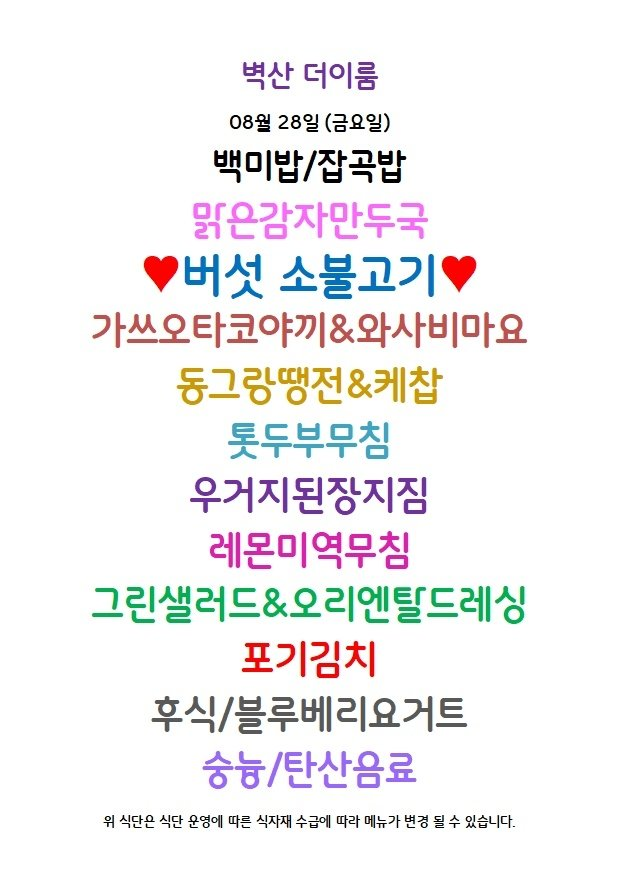
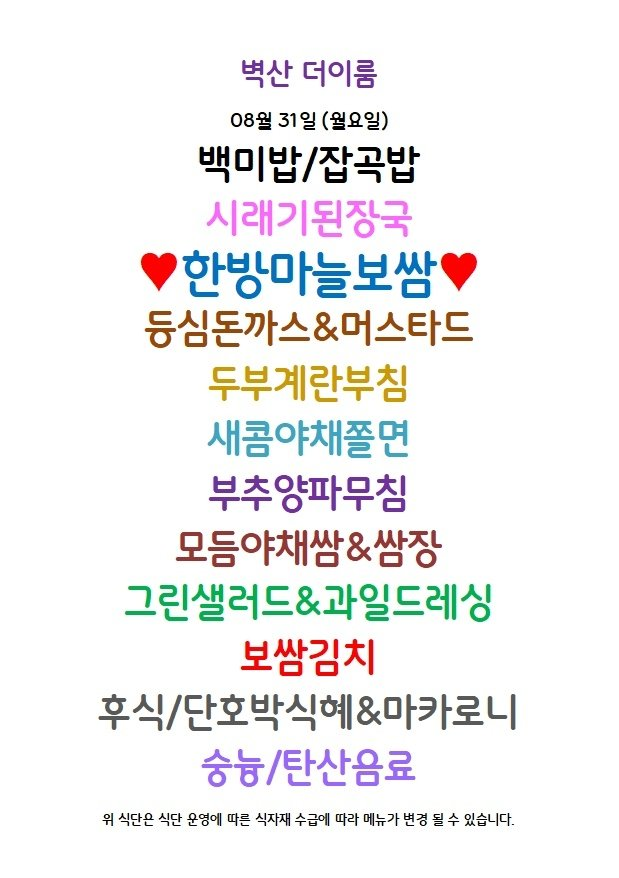
Update menu board assets

diff --git a/menu-today/index.html b/menu-today/index.html
@@ -209,7 +209,7 @@
 
     <section class="meta-bar">
       <div class="meta-card"><div class="meta-label">기준 날짜</div><div class="meta-value">2026년 8월 31일 월요일</div></div>
-      <div class="meta-card"><div class="meta-label">최종 가져온 시간</div><div class="meta-value">2026-08-31 09:03:27</div></div>
+      <div class="meta-card"><div class="meta-label">최종 가져온 시간</div><div class="meta-value">2026-08-31 09:13:20</div></div>
       <div class="meta-card"><div class="meta-label">확인 완료</div><div class="meta-value">9개 식당</div></div>
       <div class="meta-card"><div class="meta-label">준비중</div><div class="meta-value">3개 채널</div></div>
     </section>
@@ -295,7 +295,7 @@
             <div class="sub">에이스테크노타워10차</div>
           </div>
         </div>
-        <div class="menu-inline-image"><img src="./images/thefoodsketch.png" alt="더푸드스케치 식단 이미지"></div><ul><li>어묵탕</li><li>소고기불고기</li><li>후라이드치킨 / 치폴레S</li><li>코코닛쉬림프커리</li><li>비엔나스크램블에그</li><li>버섯간장비빔국수</li><li>SJ 새조개미나리초무침</li><li>콩나물무침</li><li>가든샐러드 / 드레싱</li><li>배추겉절이 / 음료</li><li>소고기물고기</li></ul>
+        <div class="menu-inline-image"><img src="./images/thefoodsketch.png" alt="더푸드스케치 식단 이미지"></div><ul><li>어묵탕</li><li>소고기불고기</li><li>후라이드치킨 / 치폴레S</li><li>코코닛쉬림프커리</li><li>비엔나스크램블에그</li><li>버섯간장비빔국수</li><li>SJ 새조개미나리초무침</li><li>콩나물무침</li><li>가든샐러드 &amp; 드레싱</li><li>배추겉절이 / 음료</li><li>소고기물고기</li></ul>
       </article>
 
       <article class="restaurant-card">

diff --git a/guro-menu/index.html b/guro-menu/index.html
@@ -32,7 +32,7 @@
   </header>
   <section class="meta">
     <div><small>기준 날짜</small><strong>2026년 8월 31일 월요일</strong></div>
-    <div><small>최종 갱신</small><strong>2026-08-31 09:03:40</strong></div>
+    <div><small>최종 갱신</small><strong>2026-08-31 09:13:37</strong></div>
     <div><small>등록 식당</small><strong>5개</strong></div>
   </section>
   <div class="notice">공개 카카오 채널의 메뉴 이미지를 자동 수집하고 OCR로 정리합니다. 텍스트에 오타가 있을 수 있으니 식단 이미지를 함께 확인해 주세요.</div>
@@ -89,8 +89,8 @@
           <a class="channel" href="https://pf.kakao.com/_xdLzxgG" target="_blank" rel="noopener">원본 채널</a>
         </div>
         <img class="menu-image" src="./images/byucksan-theirum.png" alt="벽산더이룸 식단 이미지" loading="lazy">
-        <p class="message">최신 공개 식단 이미지의 텍스트입니다. 날짜는 원본 이미지를 확인해 주세요.</p>
-        <ul><li>백미밥/잡곡밥</li><li>버섯 소불고기</li><li>가쓰오타코야끼&amp;와사비마요</li><li>우거지된장지짐</li><li>레몬미역무침</li><li>그린샐러드&amp;오리엔틸드레싱</li><li>포기김치</li><li>후식/블루베리요거트</li><li>숭등/탄산음료</li></ul>
+        
+        <ul><li>백미밥/잡곡밥</li><li>시래기된장국</li><li>한방마늘보쌈*</li><li>등심돈까스&amp;머스타드</li><li>두부계란부침</li><li>부주양파무침</li><li>모듬야채쌈&amp;쌈장</li><li>그린샐러드&amp;과일드레싱</li><li>보쌈김치</li><li>후식/단오박식혜&amp;마카로니</li><li>숭등/탄산음료</li></ul>
       </article>
 
       <article class="restaurant-card">
